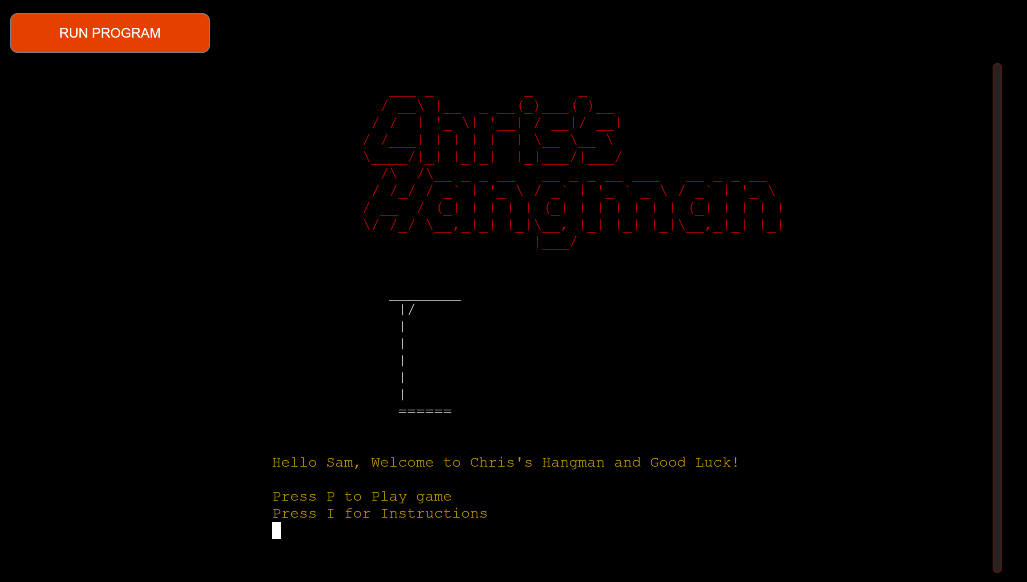
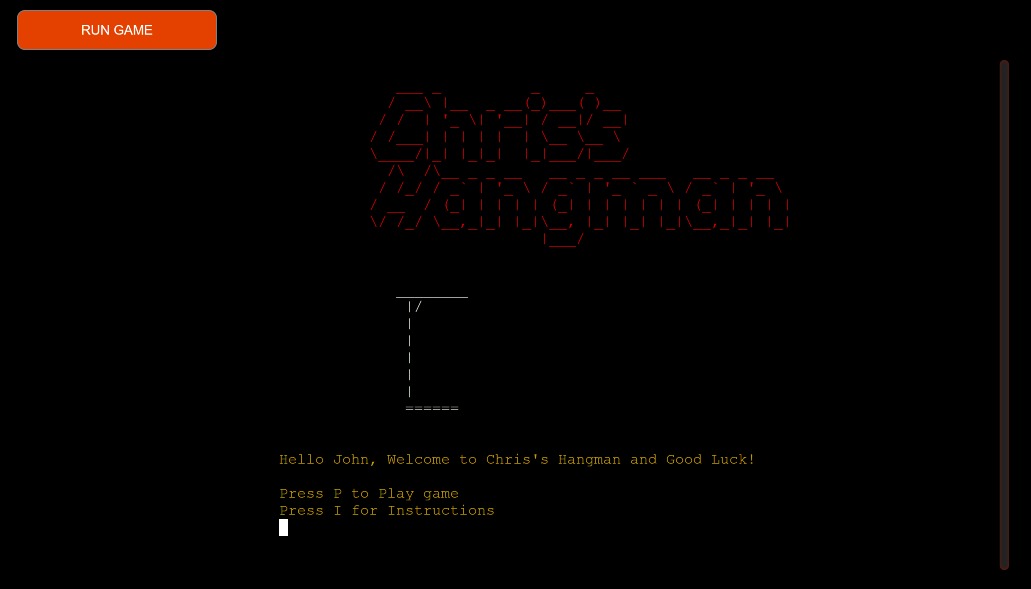
Change readme image to show run game

diff --git a/README.md b/README.md
@@ -73,7 +73,7 @@ The game will be designed for a target audience of 12 years +  due to some of th
 #
 
 -   #### Wireframes
-Due to the style of the project, the wireframe has been kept basic. Some added styles might have changed since initially creating the wireframe. 
+Due to the style of the project, the wireframe has been kept basic. Some added styles might have changed since initially creating the wireframe. I have changed the original `run program` button to `run game` to fit the style of the content being displayed.
 
 ![Hangman wireframe](./readme-content/images/hangman-wireframe.webp)
 
